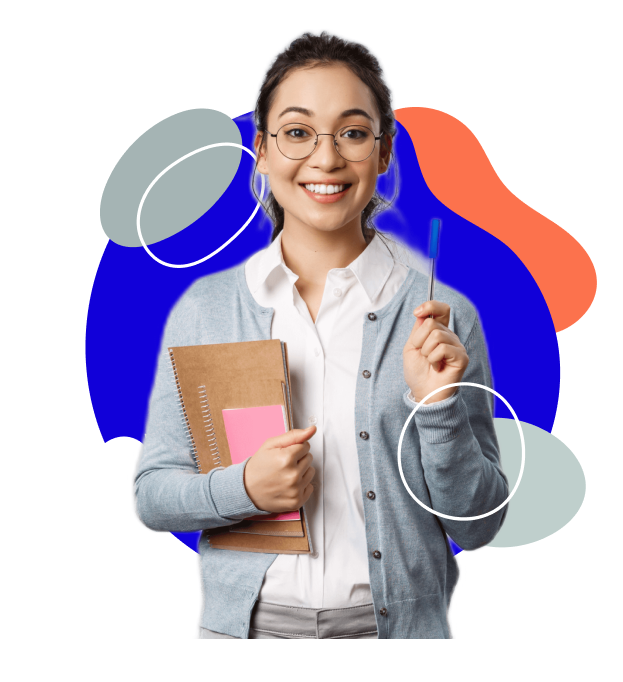
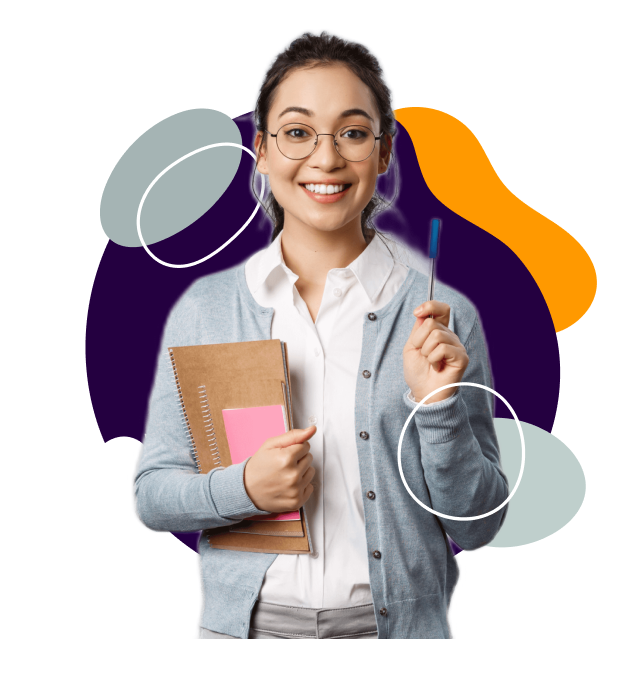
main

diff --git a/src/components/main/Spiner.js b/src/components/main/Spiner.js
@@ -11,13 +11,13 @@ const Spiner = () => {
                 width: "200px",
                 height: "200px"
             }} viewBox="0 0 100 100" preserveAspectRatio="xMidYMid">
-                <circle cx="50" cy="50" r="32" strokeWidth="8" stroke="#2435a1"
+                <circle cx="50" cy="50" r="32" strokeWidth="8" stroke="#240040"
                         strokeDasharray="50.26548245743669 50.26548245743669" fill="none" strokeLinecap="round">
                     <animateTransform attributeName="transform" type="rotate" dur="0.8695652173913042s"
                                       repeatCount="indefinite" keyTimes="0;1"
                                       values="0 50 50;360 50 50"></animateTransform>
                 </circle>
-                <circle cx="50" cy="50" r="23" strokeWidth="8" stroke="rgba(59, 84, 240, 0.84)"
+                <circle cx="50" cy="50" r="23" strokeWidth="8" stroke="rgba(36, 0, 64, 0.62)"
                         strokeDasharray="36.12831551628262 36.12831551628262" strokeDashoffset="36.12831551628262"
                         fill="none" strokeLinecap="round">
                     <animateTransform attributeName="transform" type="rotate" dur="0.8695652173913042s"

diff --git a/src/styles/Info/info.scss b/src/styles/Info/info.scss
@@ -11,7 +11,7 @@
       width: 100%;
       height: 6px;
       border-radius: 20px;
-      background: #1100D9;
+      background: #240040;
       margin-bottom: 50px;
     }
 
@@ -79,7 +79,7 @@
             font-style: normal;
             font-weight: 500;
             font-size: 22px;
-            color: #1100D9;
+            color: #240040;
           }
         }
       }
@@ -103,19 +103,19 @@
     button {
       width: 250px;
       height: 50px;
-      border: 2px solid #1100D9;
+      border: 2px solid #240040;
       background: transparent;
       border-radius: 16px;
       font-family: 'Montserrat', sans-serif;
       font-style: normal;
       font-weight: 600;
       font-size: 18px;
-      color: #1100D9;
+      color: #240040;
       cursor: pointer;
       transition: .4s;
 
       &:hover {
-        background: #1100D9;
+        background: #240040;
         transform: scale(1.1);
         color: white;
       }
@@ -139,7 +139,7 @@
         width: 70%;
         height: 500px;
         border-radius: 20px;
-        border: 2px solid #1100D9;
+        border: 2px solid #240040;
         margin-top: 70px;
         background: #fff;
         padding: 20px 80px;

diff --git a/src/styles/program/program.scss b/src/styles/program/program.scss
@@ -28,16 +28,16 @@
         font-weight: 600;
         font-size: 22px;
         color: #FFFFFF;
-        background: #2435A1;
+        background: #240040;
         border-radius: 16px;
-        border: 1px solid #2435A1;
+        border: 1px solid #240040;
         cursor: pointer;
         transition: .4s;
 
         &:hover {
           transform: scale(1.1);
           background: transparent;
-          color: #2435A1;
+          color: #240040;
         }
       }
     }
@@ -60,7 +60,7 @@
         width: 70%;
         height: 500px;
         border-radius: 20px;
-        border: 2px solid #1100D9;
+        border: 2px solid #240040;
         margin-top: 70px;
         background: #fff;
         padding: 20px 80px;
@@ -145,9 +145,9 @@
     font-weight: 600;
     font-size: 17px;
     color: #FFFFFF;
-    background: #2435A1;
+    background: #240040;
     border-radius: 16px;
-    border: 1px solid #2435A1;
+    border: 1px solid #240040;
     cursor: pointer;
     transition: .4s;
   }

diff --git a/src/styles/tool/tool.scss b/src/styles/tool/tool.scss
@@ -28,16 +28,16 @@
         font-weight: 600;
         font-size: 22px;
         color: #FFFFFF;
-        background: #2435A1;
+        background: #240040;
         border-radius: 16px;
-        border: 1px solid #2435A1;
+        border: 1px solid #240040;
         cursor: pointer;
         transition: .4s;
 
         &:hover {
           transform: scale(1.1);
           background: transparent;
-          color: #2435A1;
+          color: #240040;
         }
       }
     }
@@ -60,7 +60,7 @@
         width: 70%;
         height: 500px;
         border-radius: 20px;
-        border: 2px solid #1100D9;
+        border: 2px solid #240040;
         margin-top: 70px;
         background: #fff;
         padding: 20px 80px;
@@ -146,9 +146,9 @@
     font-weight: 600;
     font-size: 17px;
     color: #FFFFFF;
-    background: #2435A1;
+    background: #240040;
     border-radius: 16px;
-    border: 1px solid #2435A1;
+    border: 1px solid #240040;
     cursor: pointer;
     transition: .4s;
   }

diff --git a/src/components/main/home/hero.js b/src/components/main/home/hero.js
@@ -8,7 +8,7 @@ const Hero = () => {
             <div className="container">
                 <div className="hero-general">
                     <div>
-                        <h1 className="hero-general__title" style={{fontSize: media(30, 58), marginBottom: media(20, 60)}}>Талып Акун атындагы орто мектеп</h1>
+                        <h1 className="hero-general__title" style={{fontSize: media(30, 50), marginBottom: media(20, 60)}}>Зиямидин Каримбеков атындагы орто мектеби </h1>
                         <p className="hero-general__desc" style={{fontSize: media(15, 20)}}>Биздин эң сонун мектеп менен таанышууну каалагандардын
                             бардыгын тосуп алууга
                             кубанычтабыз!</p>

diff --git a/src/styles/Error/error.scss b/src/styles/Error/error.scss
@@ -20,7 +20,7 @@
       font-weight: 900;
       line-height: 24px;
       letter-spacing: 0.2px;
-      color: #2435A1;
+      color: #240040;
 
     }
     button {
@@ -33,8 +33,8 @@
       line-height: 24px;
       text-align: center;
       letter-spacing: 0.2px;
-      color: #2435A1;
-      border: 3px solid #2435A1;
+      color: #240040;
+      border: 3px solid #240040;
       border-radius: 20px;
       cursor: pointer
     }

diff --git a/src/styles/Header/header.scss b/src/styles/Header/header.scss
@@ -1,5 +1,5 @@
 #header {
-  background: rgba(36, 53, 161, 0.84);
+  background: rgba(36, 0, 64, 0.62);
   backdrop-filter: blur(5px);
   position: fixed;
   width: 100%;
@@ -77,7 +77,7 @@
 
 /* Изменение цвета выпадающих ссылок при наведении курсора */
 .dropdown-content a:hover {
-  background-color: #2435A1;
+  background-color: #240040;
   border-radius: 10px;
   color: #FFFFFF;
 }

diff --git a/src/styles/Hero/hero.scss b/src/styles/Hero/hero.scss
@@ -36,7 +36,7 @@
     &__btn {
       border: 1px solid #fff;
       font-family: 'Montserrat', sans-serif;
-      color: #2435A1;
+      color: #240040;
       background: #FFFFFF;
       border-radius: 18px;
       transition: .4s;
@@ -141,6 +141,6 @@
     margin-bottom: 30px;
   }
   #hero {
-    background: #2435A1;
+    background: #240040;
   }
 }

diff --git a/src/styles/navbar.scss b/src/styles/navbar.scss
@@ -147,7 +147,7 @@
 
 /* Изменение цвета выпадающих ссылок при наведении курсора */
 .dropdown-content__2 a:hover {
-  background-color: #2435A1;
+  background-color: #240040;
   border-radius: 10px;
   color: #000;
 }

diff --git a/src/styles/App.css b/src/styles/App.css
@@ -26,6 +26,6 @@ a, a:hover {
 
 ::-webkit-scrollbar-thumb{
     /*background: #2435A1;*/
-    background: #2435A1;
+    background: #240040;
     border-radius: 50px;
 }
